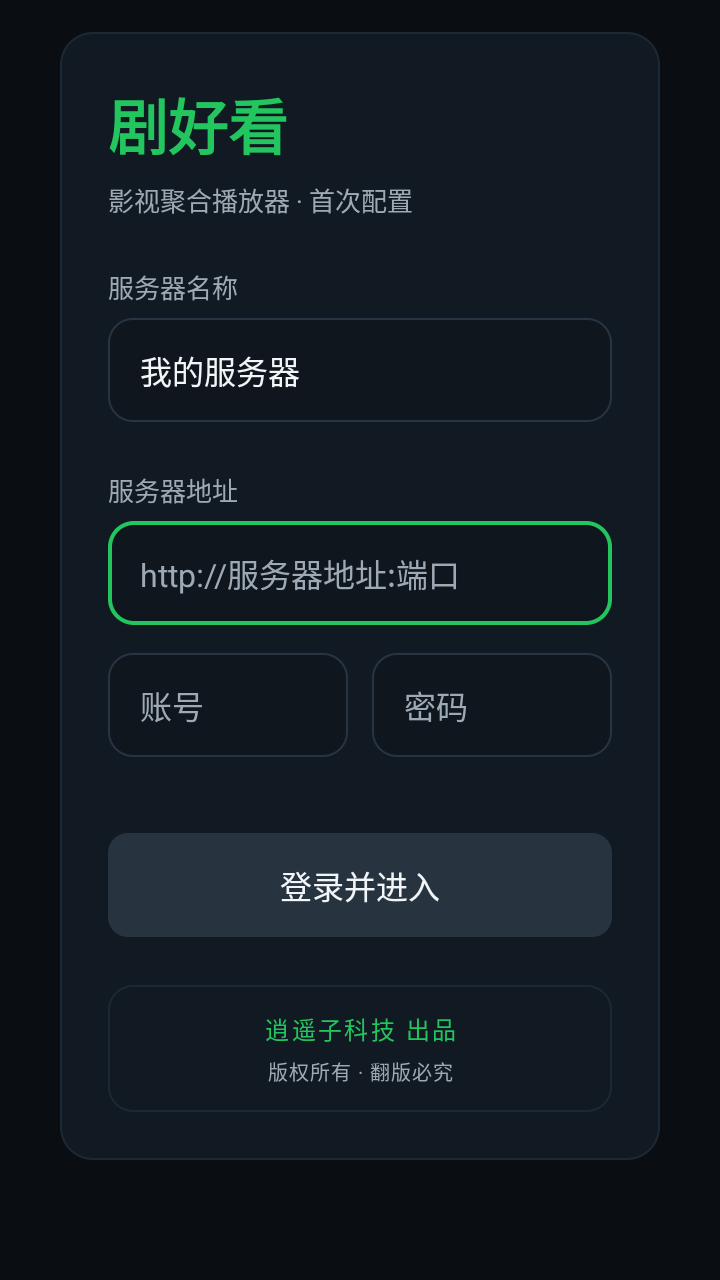
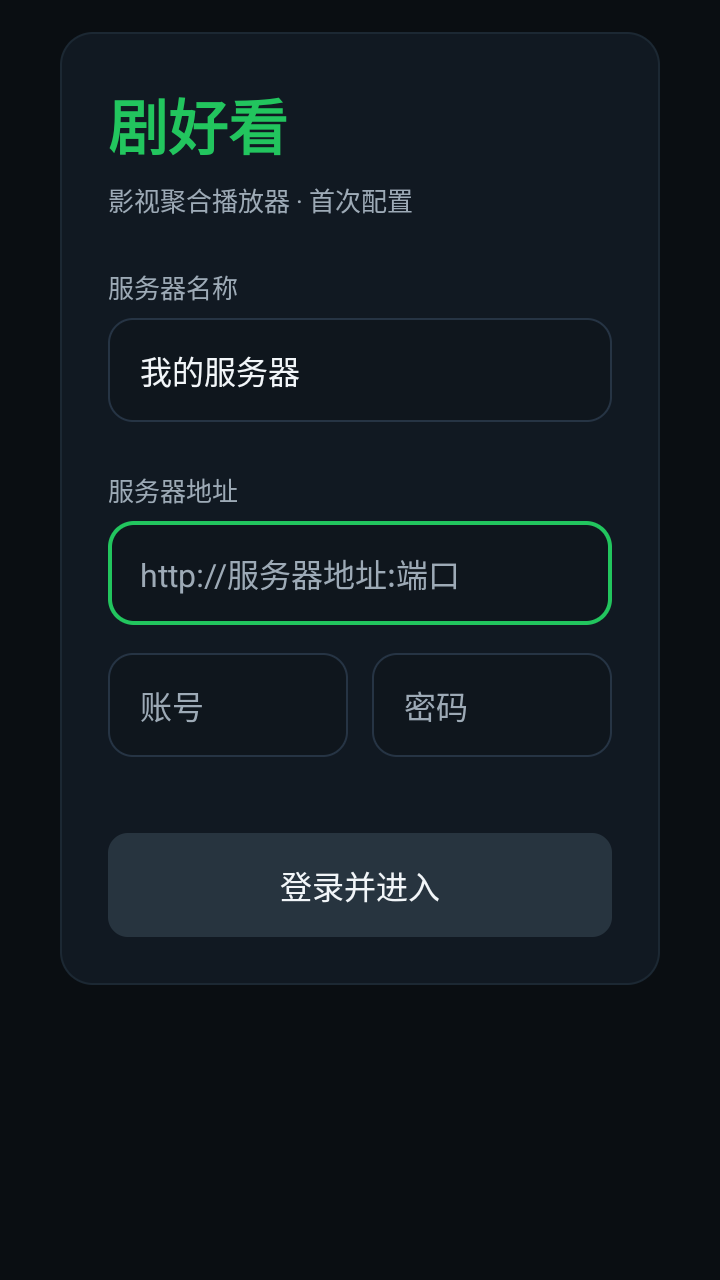
docs: 描述润色，服务端改为 MoonTV / MoonTVPlus；移除 LibreTV 表述；登录页截图改为无品牌版

Changed region(s): [[0.3667, 0.7812, 0.6417, 0.8438]]

diff --git a/app/src/main/java/com/oriontv/plus/Api.java b/app/src/main/java/com/oriontv/plus/Api.java
@@ -24,7 +24,7 @@ import okhttp3.RequestBody;
 import okhttp3.Response;
 
 /**
- * TV PLUS (LibreTV/MoonTV 兼容) 服务端接口封装。
+ * TV PLUS (MoonTV/MoonTVPlus 兼容) 服务端接口封装。
  */
 public class Api {
 

diff --git a/README.md b/README.md
@@ -2,15 +2,17 @@
 
 <img src="docs/icon.png" width="88" align="right" alt="icon">
 
-Android TV / 手机 / 平板通用的影视聚合客户端，原生 Java 编写，界面与遥控器操作全部自绘。
+一个为 Android TV、手机与平板打造的影视聚合客户端。纯 Java 实现，界面与遥控器交互全部自绘，轻量、无第三方 UI 框架。
 
-> 本项目只是**客户端**，不包含任何影视资源、直播源或服务器地址。使用前需要自行部署一套与
-> LibreTV / MoonTV 兼容的服务端，并在登录页填写地址与账号。
+> 本项目只是**客户端**，不包含、不存储、不分发任何影视资源、直播源或服务器地址。
+> 使用前请自行部署 **MoonTV / MoonTVPlus** 服务端（同样兼容使用同一套 API 的其他自建服务），
+> 在登录页填写地址与账号即可使用。
 
 ![首页](docs/screenshots/02-home.png)
 
 ## 功能
 
+- **服务端对接**：兼容 **MoonTV / MoonTVPlus** 及同套 API 的自建服务端，支持登录、搜索、详情、豆瓣推荐、收藏与播放进度同步
 - **影视浏览**：电影 / 剧集 / 动漫 / 综艺分类、筛选、豆瓣推荐、每日放送
 - **搜索**：片名搜索 + 拼音首字母搜索（如 `xyj` → 西游记），内置词库兜底，无结果提示友好
 - **详情与播放**：多源切换、选集、自动记忆播放进度、跳过片头片尾、去广告、0.1–8 倍速
@@ -82,7 +84,7 @@ gradlew.bat assembleRelease
 ## 服务端
 
 客户端所有数据都来自你自己部署的服务端，登录页填写 `http://服务器地址:端口` 与账号密码即可。
-接口契约见 [docs/API.md](docs/API.md)，与 LibreTV / MoonTV 的服务端接口保持一致。
+接口契约见 [docs/API.md](docs/API.md)，与 MoonTV / MoonTVPlus 服务端的接口保持一致。
 
 ## 自定义
 

diff --git a/docs/API.md b/docs/API.md
@@ -1,6 +1,6 @@
 # 服务端接口说明
 
-客户端本身不存储任何数据，以下接口均由用户自行配置的服务端提供，与 LibreTV / MoonTV 的
+客户端本身不存储任何数据，以下接口均由用户自行配置的服务端提供，与 MoonTV / MoonTVPlus 的
 服务端接口保持一致。所有请求都需要携带登录后服务端下发的 `auth` Cookie。
 
 | 方法 | 路径 | 说明 |
